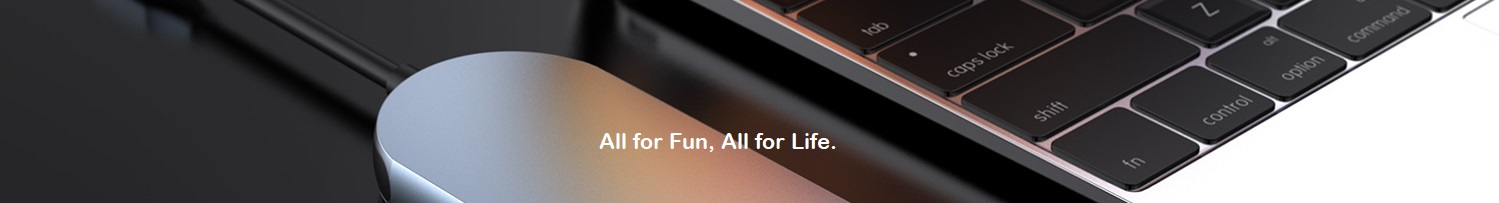
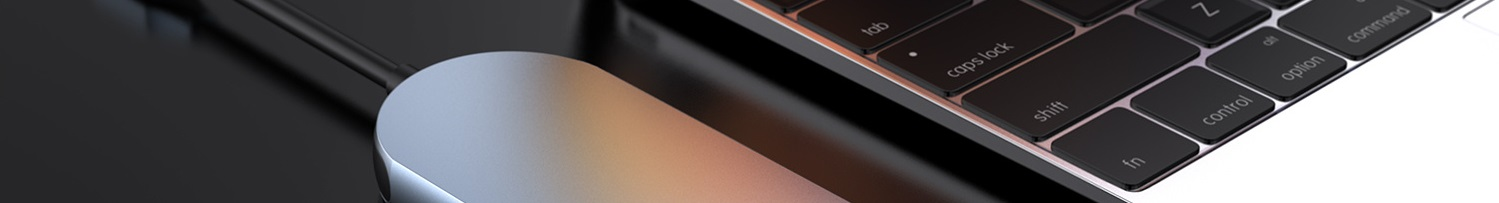
Site updated: 2019-03-23 13:21:33

Changed region(s): [[0.3989, 0.6502, 0.5524, 0.7389]]

diff --git a/2019/03/23/hello-world/index.html b/2019/03/23/hello-world/index.html
@@ -85,7 +85,7 @@
         <div class="branding">
         	<!--<h2 class="text-hide">Snippet主题,从未如此简单有趣</h2>-->
             
-                <h2> . </h2>
+                 <img src="/img/branding.png" alt="Snippet 博客主题" class="img-responsive center-block">
             
     	</div>
     </div>

diff --git a/archives/2019/03/index.html b/archives/2019/03/index.html
@@ -85,7 +85,7 @@
         <div class="branding">
         	<!--<h2 class="text-hide">Snippet主题,从未如此简单有趣</h2>-->
             
-                <h2> . </h2>
+                 <img src="/img/branding.png" alt="Snippet 博客主题" class="img-responsive center-block">
             
     	</div>
     </div>

diff --git a/archives/2019/index.html b/archives/2019/index.html
@@ -85,7 +85,7 @@
         <div class="branding">
         	<!--<h2 class="text-hide">Snippet主题,从未如此简单有趣</h2>-->
             
-                <h2> . </h2>
+                 <img src="/img/branding.png" alt="Snippet 博客主题" class="img-responsive center-block">
             
     	</div>
     </div>

diff --git a/archives/index.html b/archives/index.html
@@ -85,7 +85,7 @@
         <div class="branding">
         	<!--<h2 class="text-hide">Snippet主题,从未如此简单有趣</h2>-->
             
-                <h2> . </h2>
+                 <img src="/img/branding.png" alt="Snippet 博客主题" class="img-responsive center-block">
             
     	</div>
     </div>

diff --git a/categories/Life/index.html b/categories/Life/index.html
@@ -85,7 +85,7 @@
         <div class="branding">
         	<!--<h2 class="text-hide">Snippet主题,从未如此简单有趣</h2>-->
             
-                <h2> . </h2>
+                 <img src="/img/branding.png" alt="Snippet 博客主题" class="img-responsive center-block">
             
     	</div>
     </div>

diff --git a/index.html b/index.html
@@ -85,7 +85,7 @@
         <div class="branding">
         	<!--<h2 class="text-hide">Snippet主题,从未如此简单有趣</h2>-->
             
-                <h2> . </h2>
+                 <img src="/img/branding.png" alt="Snippet 博客主题" class="img-responsive center-block">
             
     	</div>
     </div>

diff --git a/tags/study/index.html b/tags/study/index.html
@@ -85,7 +85,7 @@
         <div class="branding">
         	<!--<h2 class="text-hide">Snippet主题,从未如此简单有趣</h2>-->
             
-                <h2> . </h2>
+                 <img src="/img/branding.png" alt="Snippet 博客主题" class="img-responsive center-block">
             
     	</div>
     </div>

diff --git a/tags/tool/index.html b/tags/tool/index.html
@@ -85,7 +85,7 @@
         <div class="branding">
         	<!--<h2 class="text-hide">Snippet主题,从未如此简单有趣</h2>-->
             
-                <h2> . </h2>
+                 <img src="/img/branding.png" alt="Snippet 博客主题" class="img-responsive center-block">
             
     	</div>
     </div>
